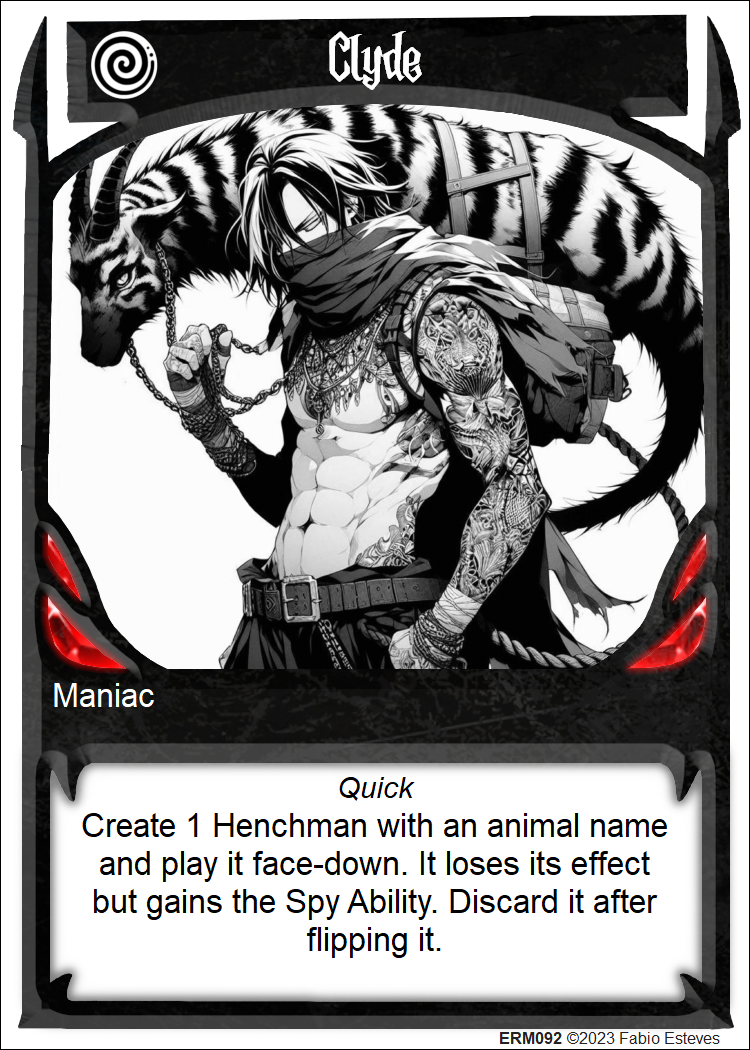
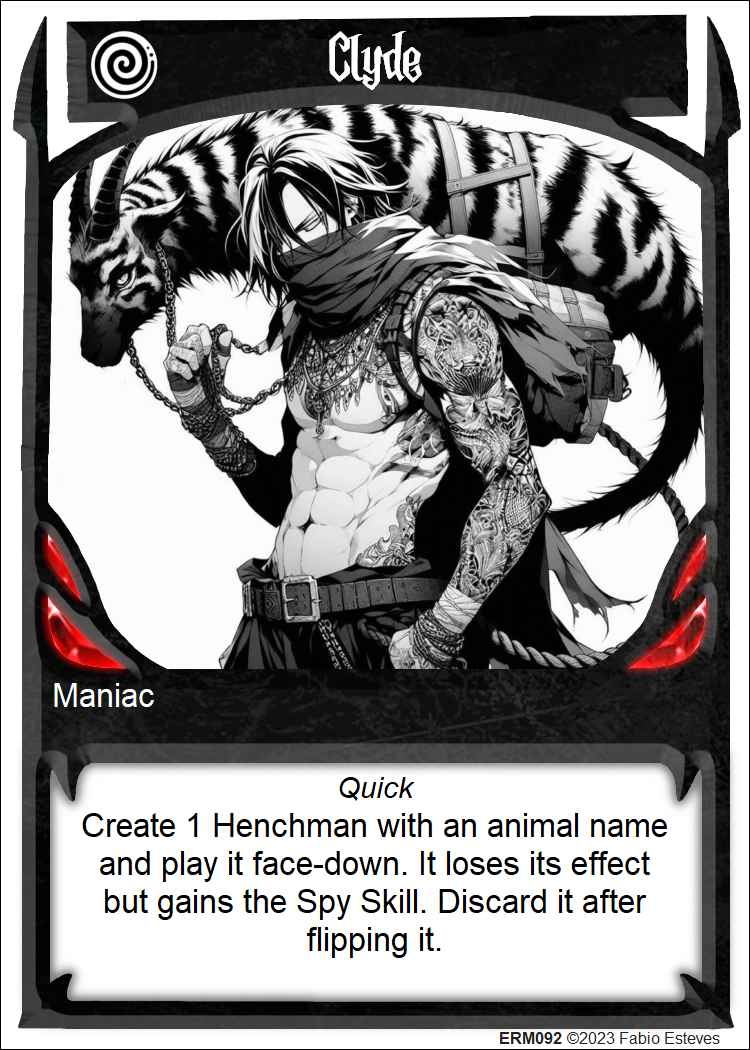
mistakes on english cards

Changed region(s): [[0.1227, 0.8229, 0.8893, 0.8838]]

diff --git a/cardsen/cardlisten.html b/cardsen/cardlisten.html
@@ -283,13 +283,13 @@ Guilhotine	|Maniac|	Create 1 "Headless Guard".	| 	|deckbuildercards_088.png
 Daisy and Violet	|Maniac|	Create 2 "Eerie Song". You can only create up to 2 "Eerie Song" per turn.	| 	|deckbuildercards_089.png
 Euryale	|Maniac|	Whenever an enemy card flips face-up on the opponent's turn, create 1 "Statue".	| 	|deckbuildercards_090.png
 Narlagoth	|Maniac|	Create 1 "Maiden" for each card in the opponent's hand.	| 	|deckbuildercards_091.png
-Clyde	|Maniac|	Create 1 Henchman with an animal name and play it face-down. It loses its effect but gains the Spy Ability. Discard it after flipping it.	| 	|deckbuildercards_092.png
+Clyde	|Maniac|	Create 1 Henchman with an animal name and play it face-down. It loses its effect but gains the Spy Skill. Discard it after flipping it.	| 	|deckbuildercards_092.png
 Lepre	|Maniac|	Create 1 "Plague".	| 	|deckbuildercards_093.png
 Mabel	|Maniac|	Create 1 "Sheep" for each empty position on the opponent's Zone 1.	| Evasive	|deckbuildercards_094.png
 Endora	|Maniac|	Create 1 "Pumpkin".	| 	|deckbuildercards_095.png
 César	|Maniac|	Create 3 "Map Parts" and place them at the bottom of your Deck. There can't be more than 3 "Map Parts" in play.	| 	|deckbuildercards_096.png
-Pirate	|Henchman|	This card has the Thief Ability.	| 	|deckbuildercards_097.png
-Shark	|Henchman|	This card has the Assassin Ability.	| 	|deckbuildercards_098.png
+Pirate	|Henchman|	This card has the Thief Skill.	| 	|deckbuildercards_097.png
+Shark	|Henchman|	This card has the Assassin Skill.	| 	|deckbuildercards_098.png
 Zombie	|Henchman|	Kill 1 enemy card in the same zone where you played this card. If a card dies by this effect, create 1 "Zombie".	| 	|deckbuildercards_099.png
 Illusion	|Henchman|	Place this card in your hand. You may discard it to prevent an enemy card's attack (the opponent loses that action point).	| 	|deckbuildercards_100.png
 Demon	|Henchman|	Place this card on top of your Deck. Gain 2 action points when you draw it, then discard it.	| Curse	|deckbuildercards_101.png
